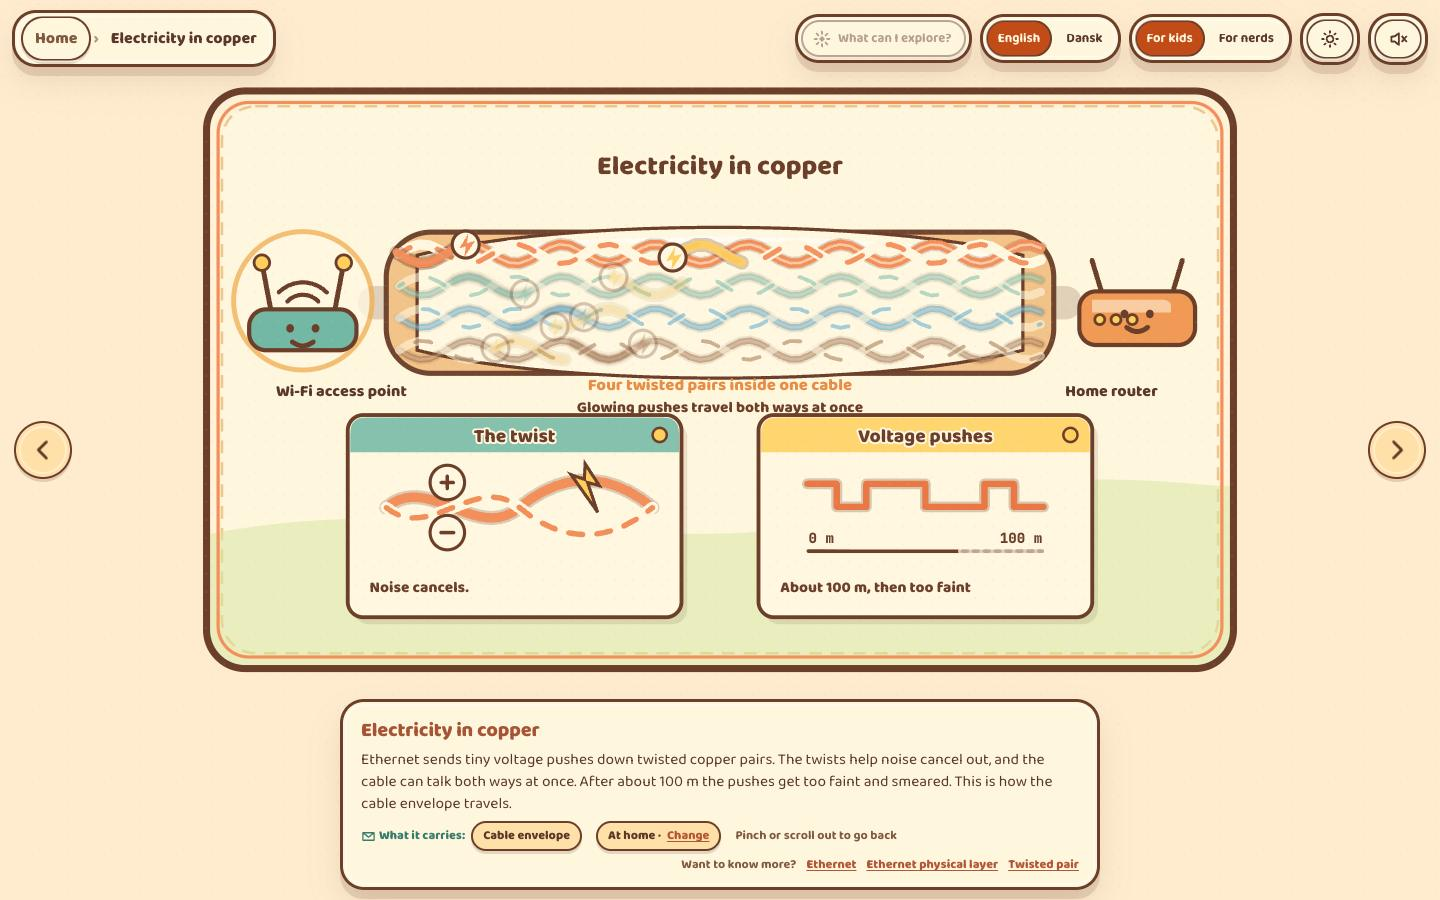
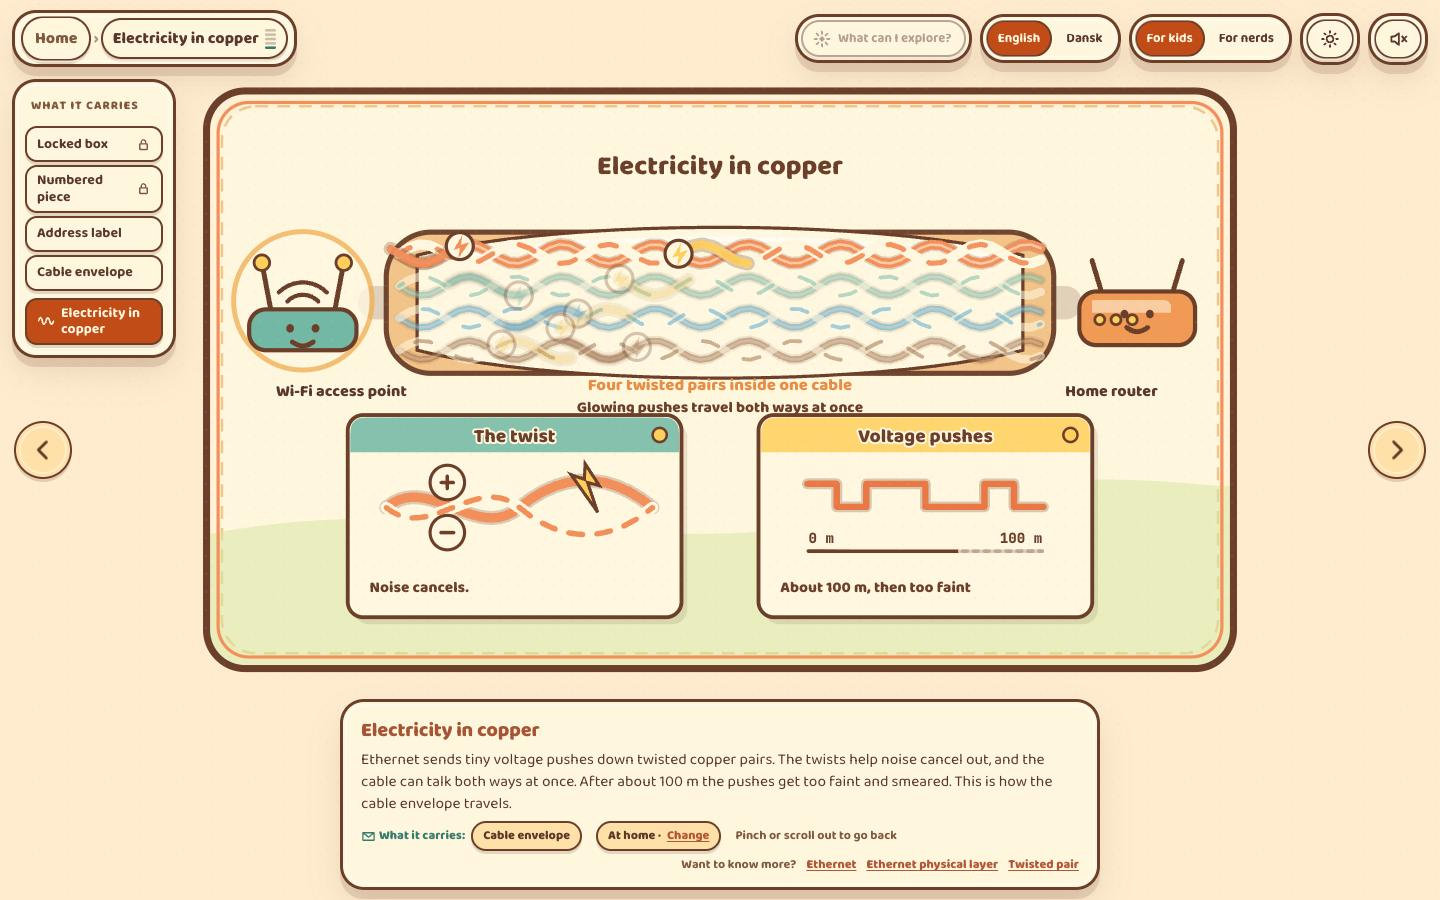
Merge-follow-up: the ladder's moves are camera moves too; refresh my shots with the ladder chrome

diff --git a/docs/look-and-feel.md b/docs/look-and-feel.md
@@ -334,8 +334,9 @@ always muted again on reload.
     bottom says where from and to. Quick repeated steps join into one, slightly quicker glide. With
     `prefers-reduced-motion` it cuts straight to the next dive.
   - With `prefers-reduced-motion` nothing flies (issue #41): every move (stepping, zooming in and out, the
-    breadcrumb, switching places, letting a packet go) cuts there under a quick 220 ms cross-fade, and an envelope
-    opened from the peek doesn't grow into its dive. The URL and where focus goes are the same either way.
+    breadcrumb and its ladder, switching places, letting a packet go) cuts there under a quick 220 ms
+    cross-fade, and an envelope opened from the peek doesn't grow into its dive. The URL and where focus goes
+    are the same either way.
   - A run of links with the same technology is **one stop** (issue #34): inside the internet you step from the
     street's shared fibre (access) to the colours of the metro fibre and on to the long-haul backbone, and each
     looks different, instead of stepping through six identical "light in a glass thread" dives. The run has one
